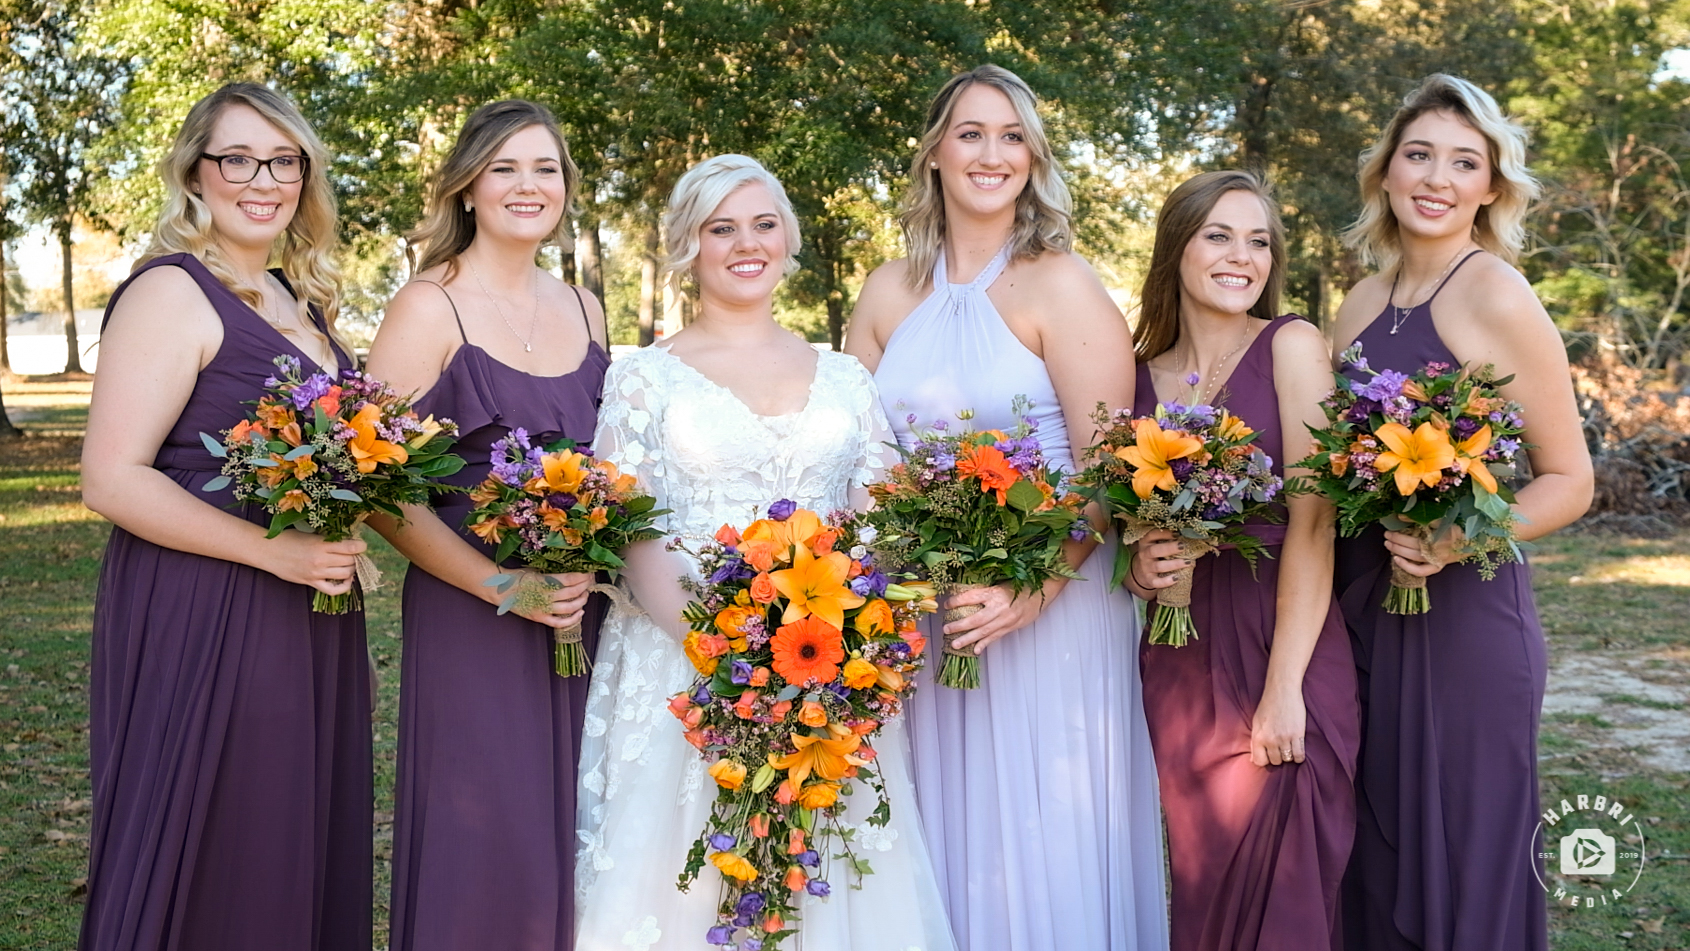
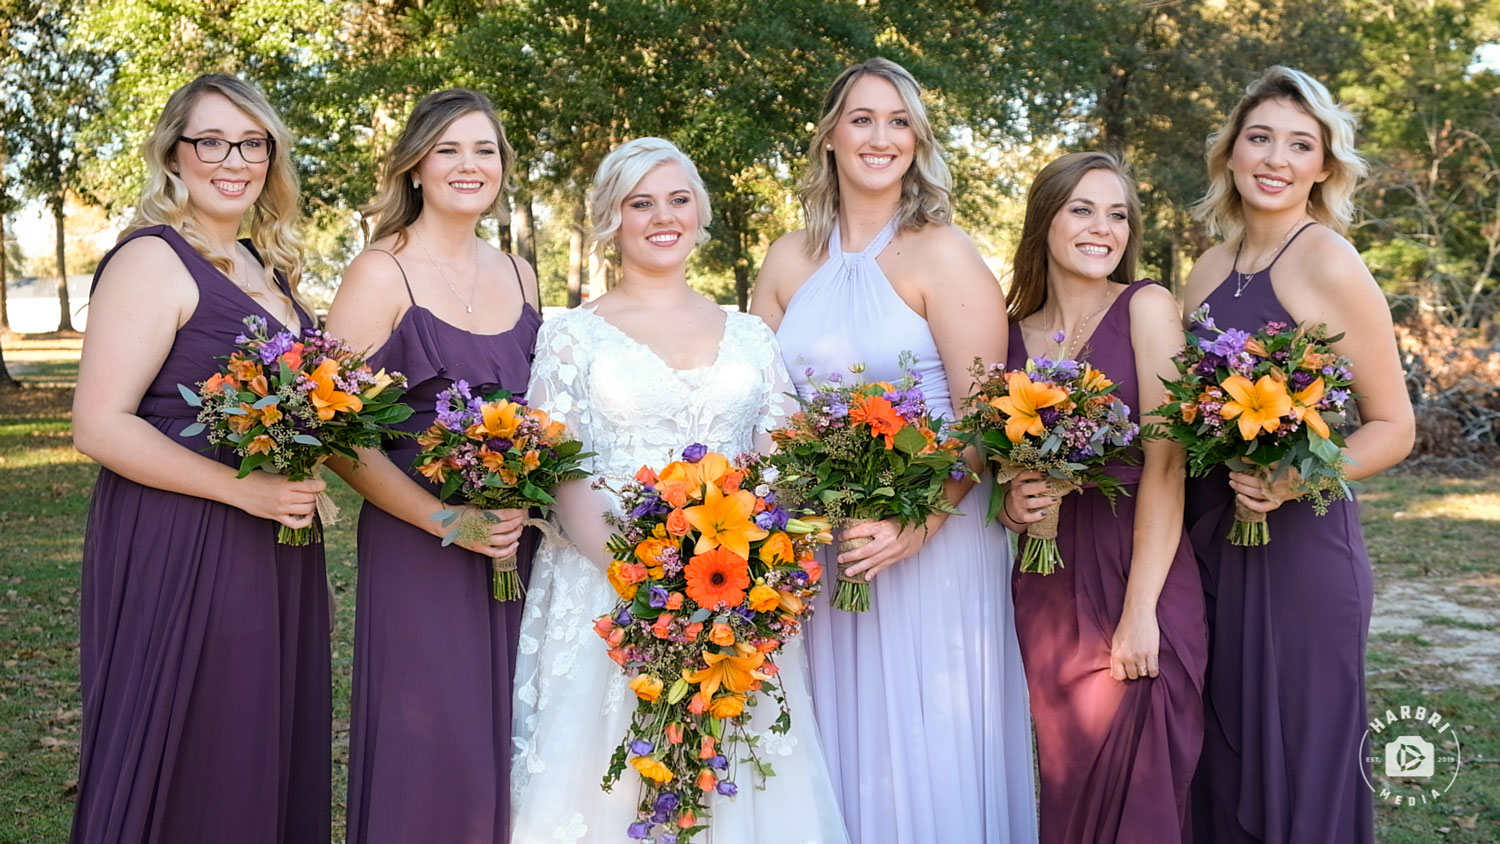
Resized hero images

diff --git a/sass/layout/_header.scss b/sass/layout/_header.scss
@@ -124,7 +124,7 @@
       rgba($color-secondary-lt, 0.9),
       rgba($color-secondary-dk, 0.9)
     ),
-    url(../img/events-hero.png);
+    url(../img/events-hero.jpg);
   background-size: cover;
   background-repeat: no-repeat;
   background-position: top;
